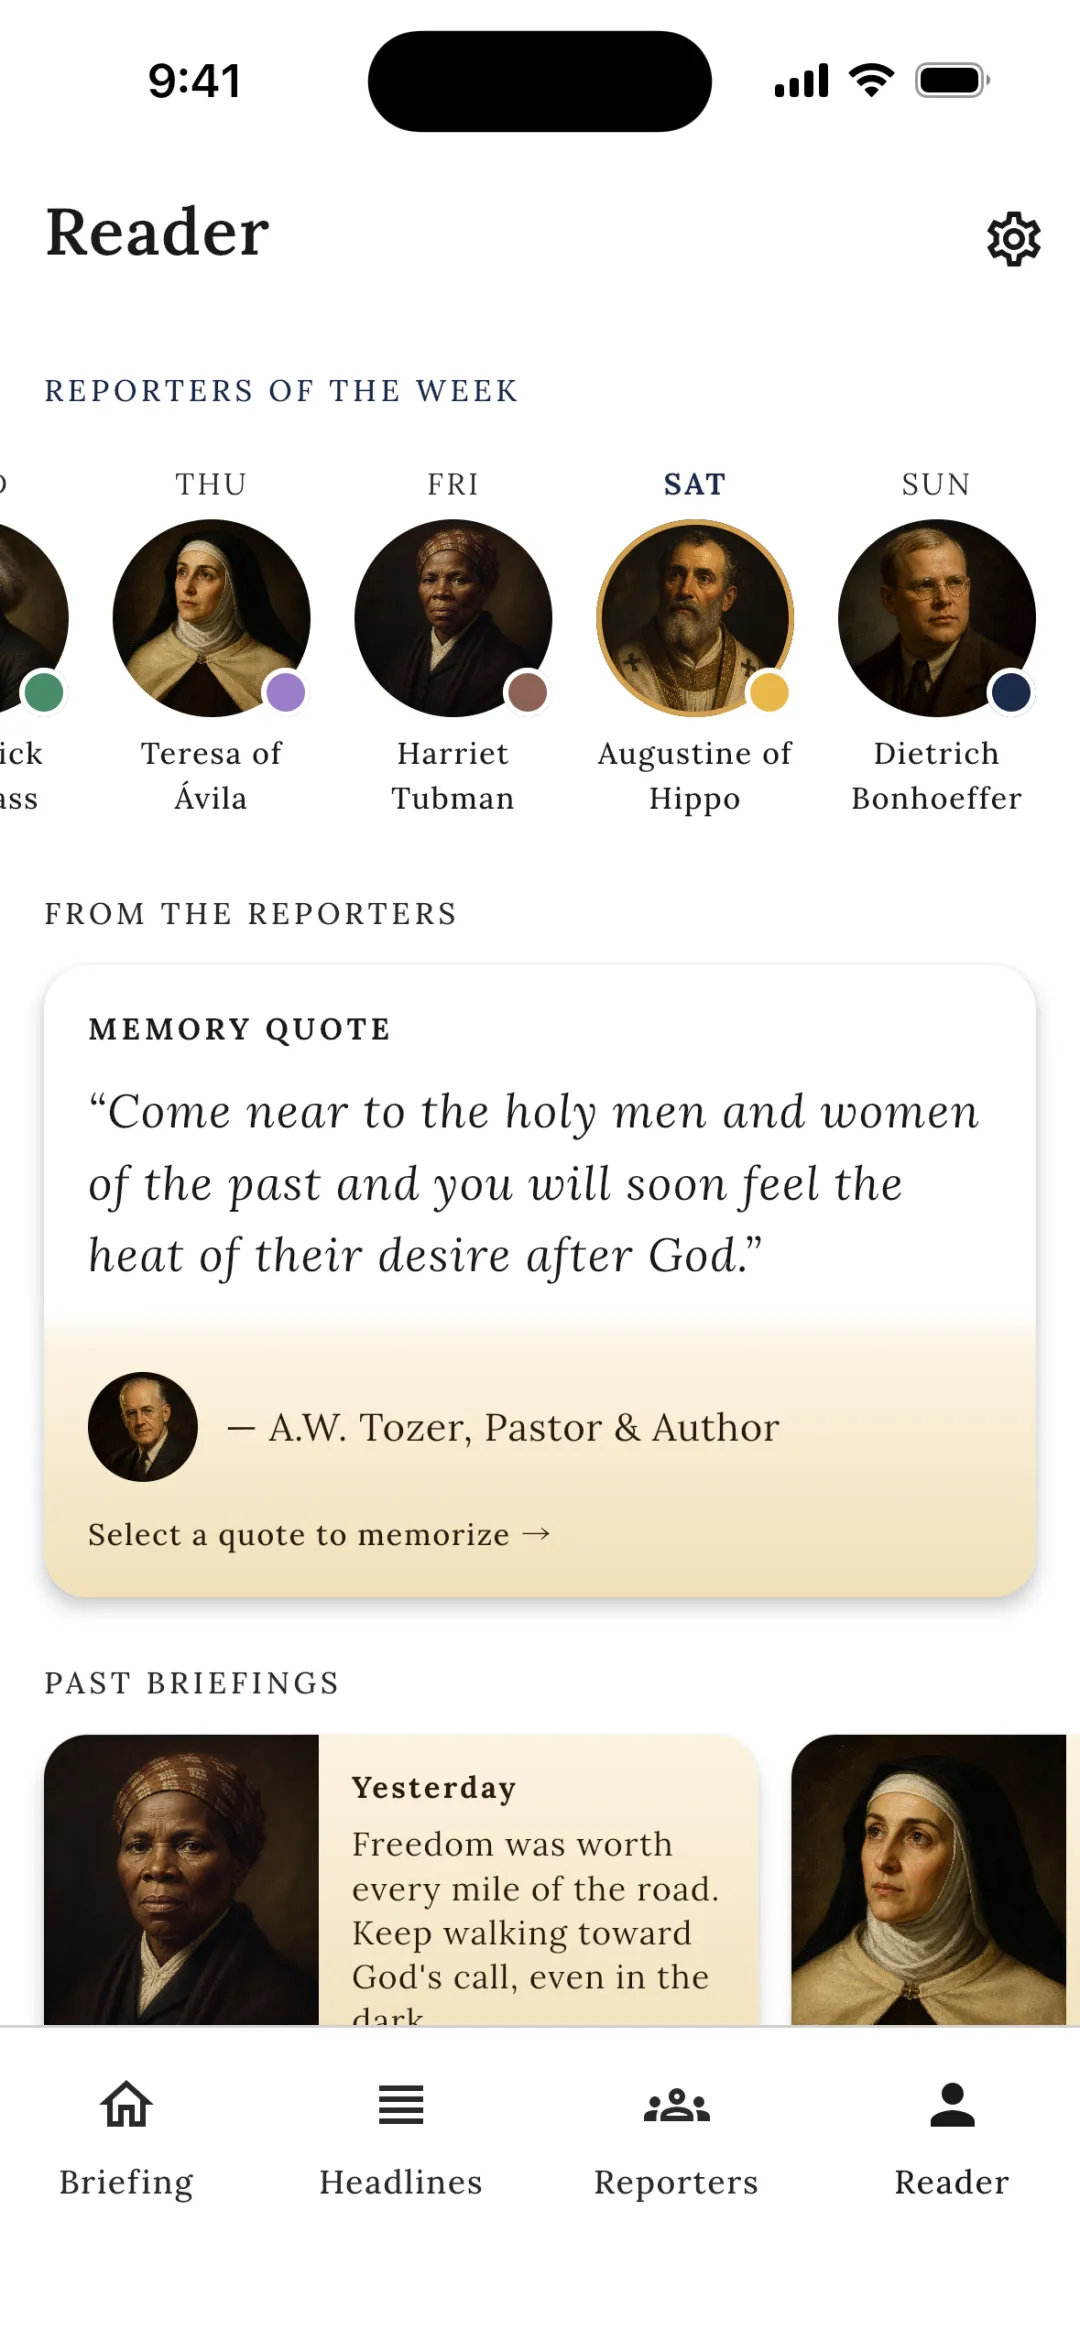
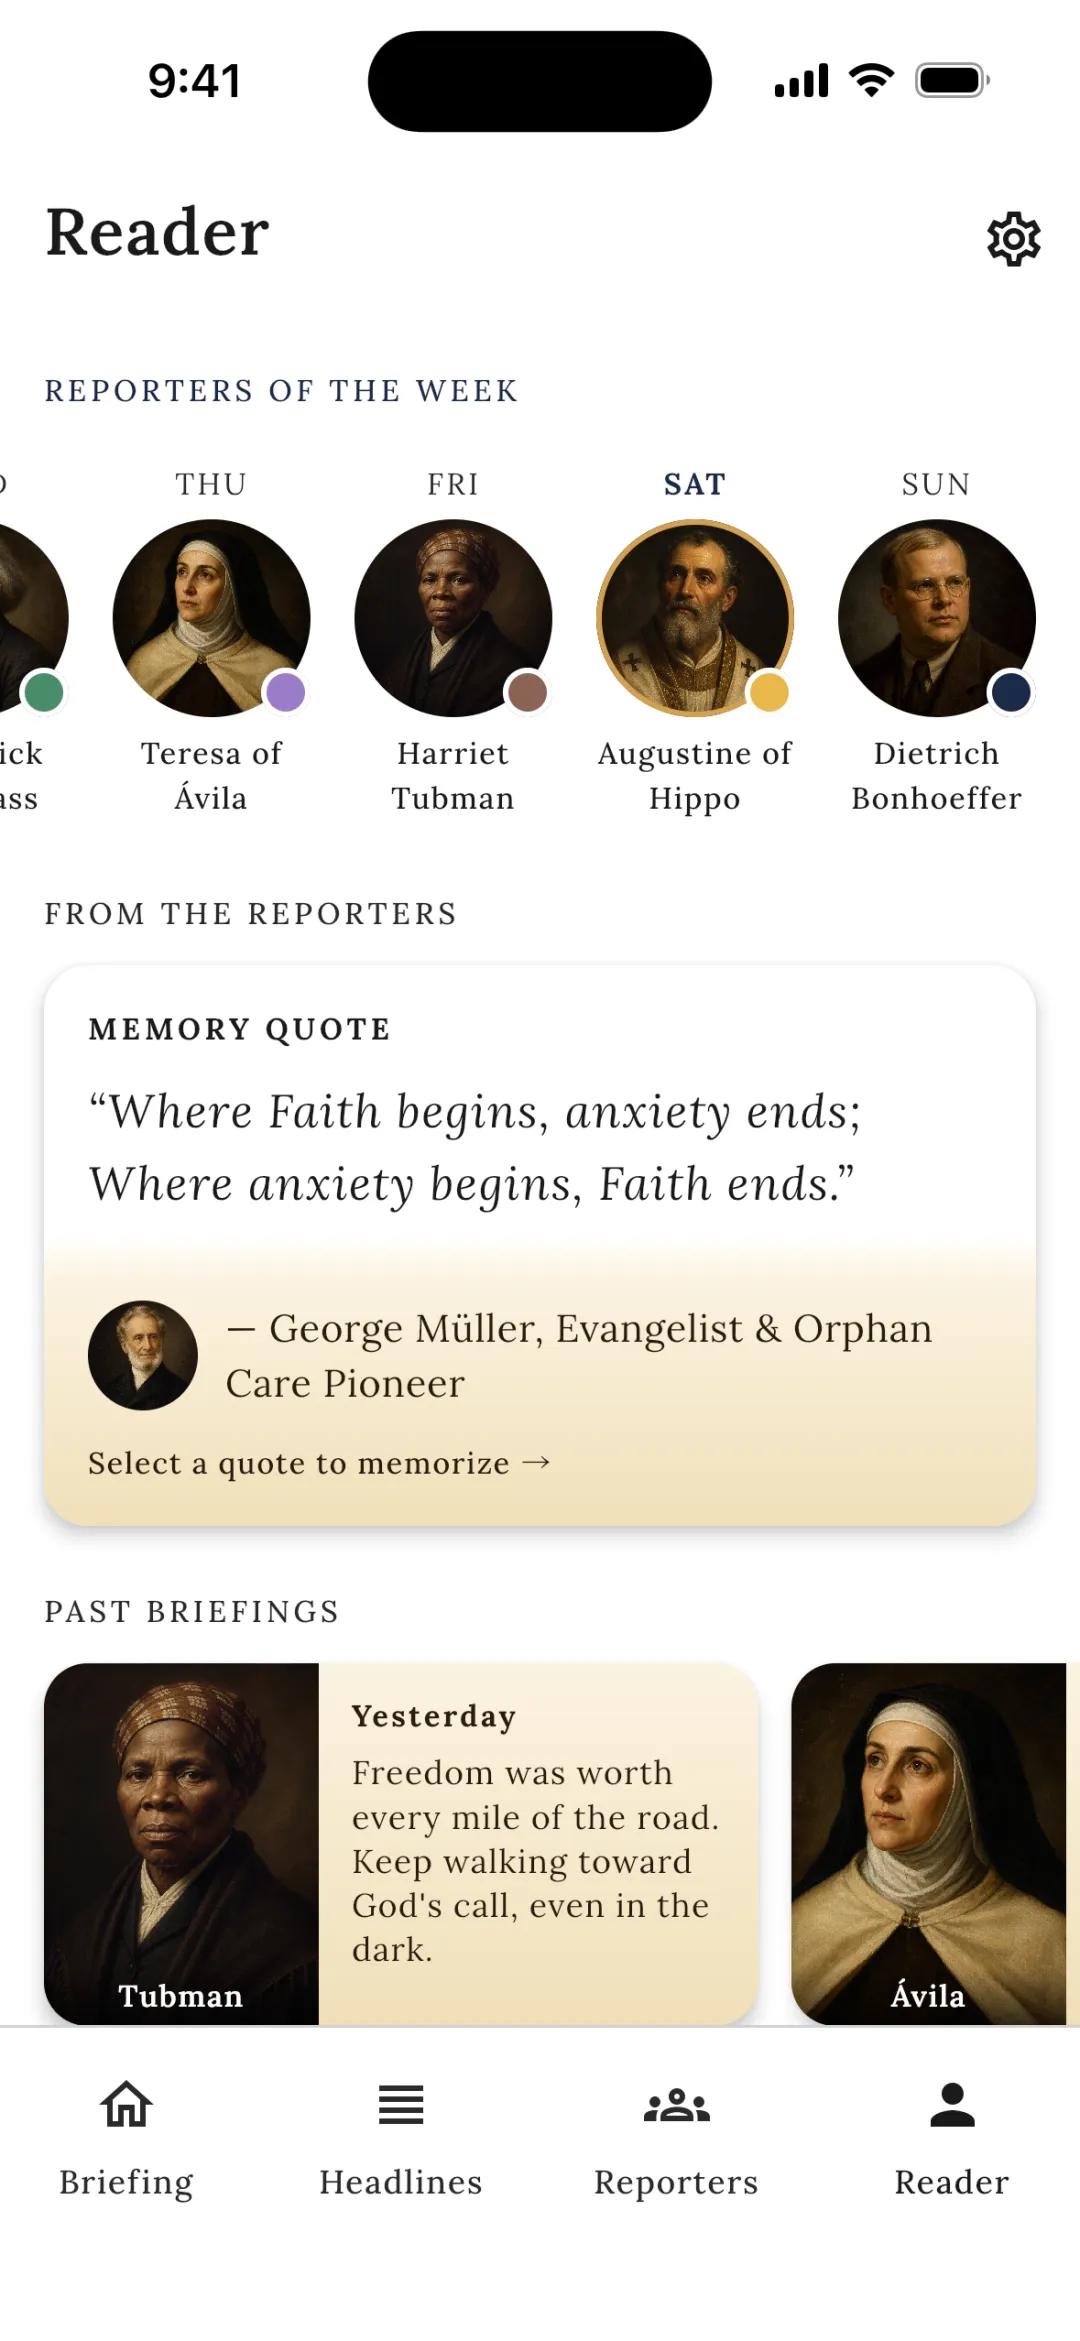
MS-818: Use George Müller's own wording for the Reader memory quote
The line is printed in Pierson's George Müller of Bristol (1899), Appendix N,
"The Wise Sayings of George Müller", drawn from Müller's Narrative and Reports.

Changed region(s): [[0.0306, 0.4677, 1.0, 0.8731], [0.6722, 0.8419, 0.7028, 0.8731], [0.0306, 0.8419, 0.0611, 0.8731]]

diff --git a/composeApp/src/commonMain/kotlin/com/mediasage/feature/you/ReaderStateProvider.kt b/composeApp/src/commonMain/kotlin/com/mediasage/feature/you/ReaderStateProvider.kt
@@ -15,8 +15,8 @@ private const val TODAY_EPOCH_DAY = 20729L
 
 /**
  * Reader tab used for the thecouragepost.app screenshots. The week's roster mixes eras with
- * Augustine today, the memory quote is from Tozer's The Pursuit of God (1948, copyright not
- * renewed), and the past-briefing lines are written for this sample, not quoted.
+ * Augustine today, the memory quote is Müller as printed in Pierson's George Müller of Bristol
+ * (1899), Appendix N, and the past-briefing lines are written for this sample, not quoted.
  */
 internal val AugustineReaderState = ReaderContract.UiState.Ready(
     weekSlots = listOf(
@@ -29,10 +29,10 @@ internal val AugustineReaderState = ReaderContract.UiState.Ready(
         rosterSlot(DayOfWeek.SUNDAY, 3L, "Dietrich Bonhoeffer", LensFilter.NEWS),
     ),
     quoteCard = ReaderContract.QuoteCard(
-        quoteText = "Come near to the holy men and women of the past and you will soon feel the heat of their desire after God.",
-        figureName = "A.W. Tozer",
-        figureRole = "Pastor & Author",
-        figureImageUrl = "$PORTRAITS/19.webp",
+        quoteText = "Where Faith begins, anxiety ends; Where anxiety begins, Faith ends.",
+        figureName = "George Müller",
+        figureRole = "Evangelist & Orphan Care Pioneer",
+        figureImageUrl = "$PORTRAITS/91.webp",
     ),
     pastBriefings = listOf(
         pastBriefing(

diff --git a/website/public/index.html b/website/public/index.html
@@ -53,7 +53,7 @@
         <img class="phone" src="/images/reader-540.webp"
              srcset="/images/reader-540.webp 540w, /images/reader-1080.webp 1080w"
              sizes="(min-width: 760px) 300px, 80vw" width="540" height="1015" loading="lazy"
-             alt="The Reader tab with a week of reporters including Harriet Tubman, a memory quote from A.W. Tozer and past briefings">
+             alt="The Reader tab with a week of reporters including Harriet Tubman, a memory quote from George Müller and past briefings">
         <figcaption>Your week of reporters and the quotes you keep.</figcaption>
       </figure>
     </li>
